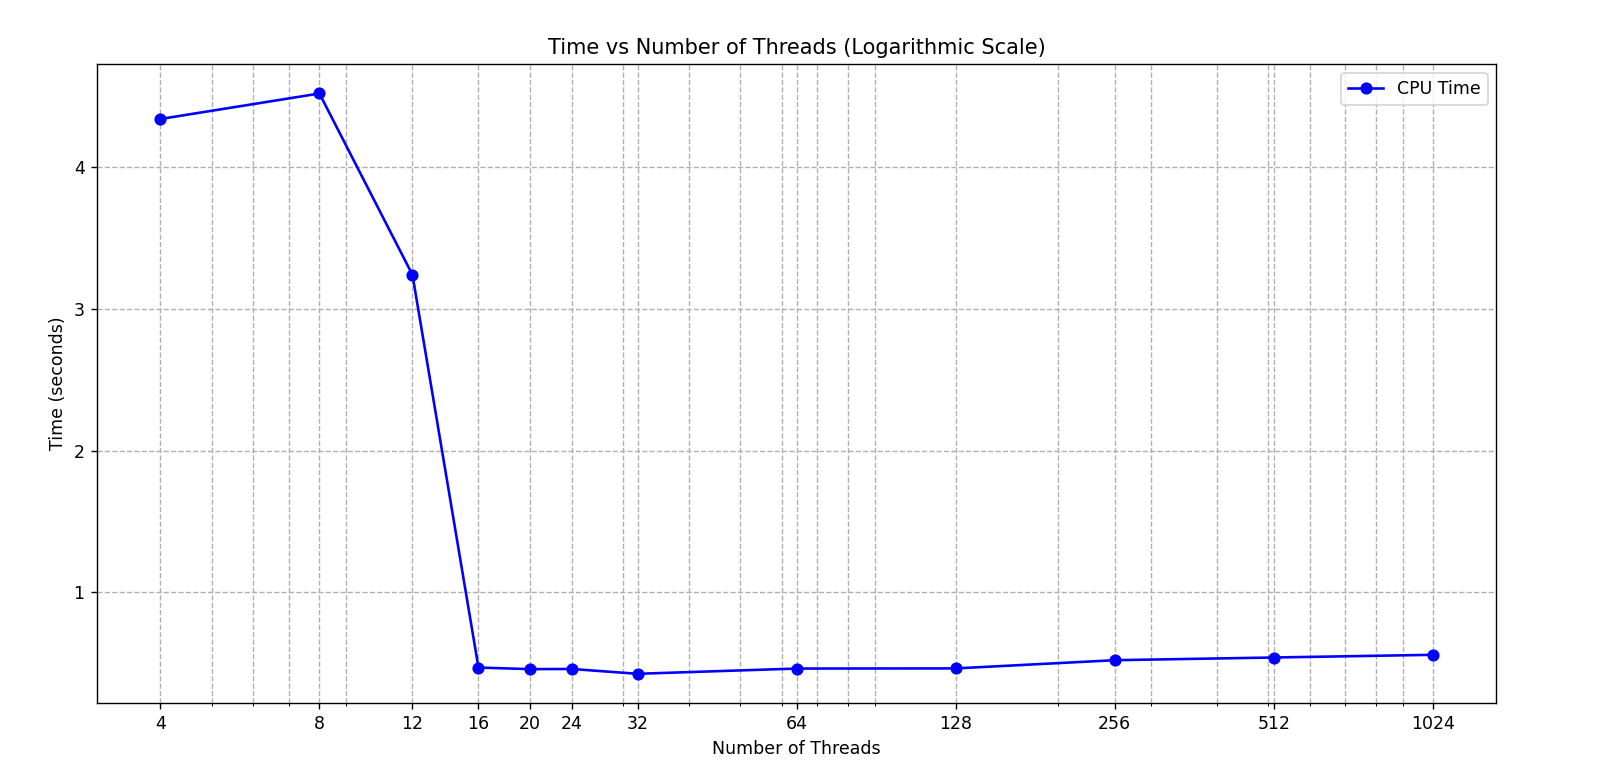
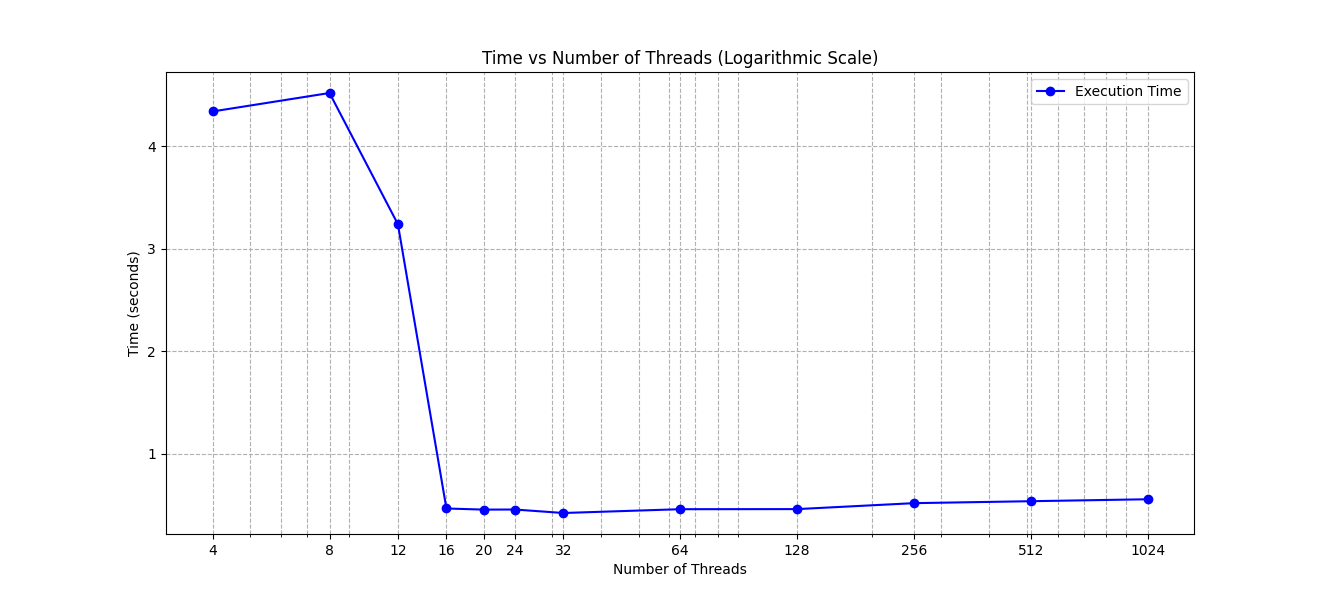
analysis added

diff --git a/project/threadvstime.py b/project/threadvstime.py
@@ -72,7 +72,7 @@ cpu_time = [0.558, 0.539, 0.520, 0.462, 0.461, 0.424, 0.458, 0.457, 0.468, 3.24,
 # Plot all times in one graph
 plt.figure(figsize=(10, 6))
 
-plt.plot(num_threads, cpu_time, marker='o', color='b', label='CPU Time')
+plt.plot(num_threads, cpu_time, marker='o', color='b', label='Execution Time')
 
 plt.title('Time vs Number of Threads (Logarithmic Scale)')
 plt.xlabel('Number of Threads')
